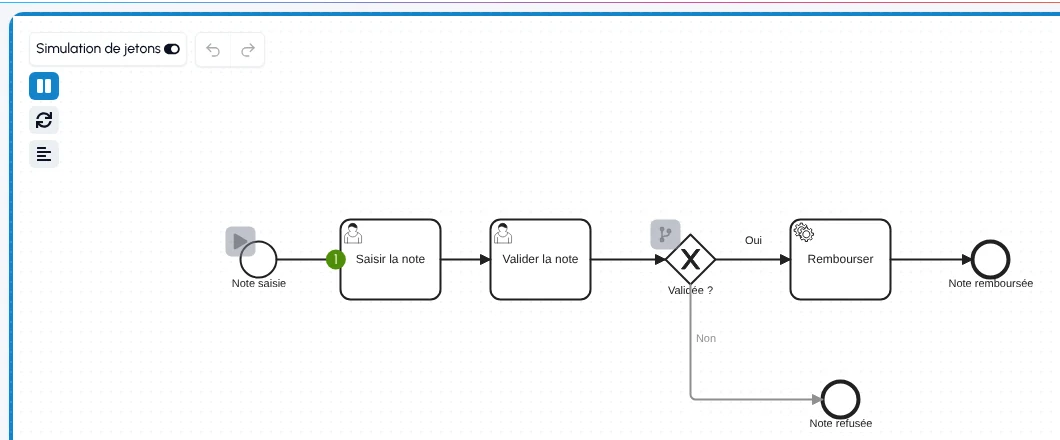
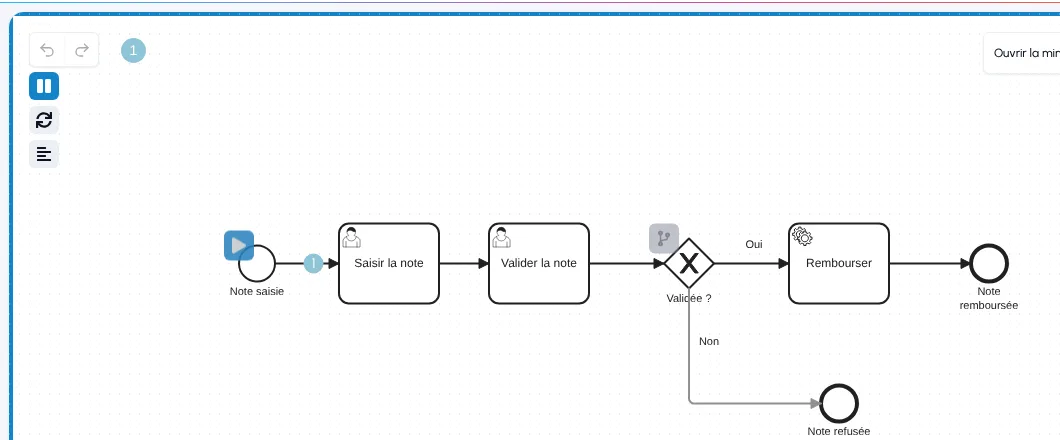
Move token simulation into expert mode and drop the canvas toggle

diff --git a/aide.html b/aide.html
@@ -127,7 +127,7 @@
         <p>La clé à molette ouvre la fenêtre <span class="uib">Changer l'élément</span>. Elle liste les types compatibles avec l'élément choisi : une tâche peut devenir tâche utilisateur, tâche de service, activité d'appel ou sous-processus, un événement de début peut devenir événement de début de message ou de minuteur, etc. Tapez quelques lettres dans le champ de recherche pour filtrer la liste, puis cliquez sur un type ou validez avec <kbd>Entrée</kbd>. La touche <kbd>R</kbd> ouvre la même fenêtre au clavier.</p>
         <p>Pour une tâche ou un sous-processus, les icônes en haut à droite de la fenêtre ajoutent un marqueur sans changer le type : multi-instance parallèle <span class="ico bpmn-icon-parallel-mi-marker" aria-hidden="true"></span>, multi-instance séquentielle <span class="ico bpmn-icon-sequential-mi-marker" aria-hidden="true"></span> et boucle <span class="ico bpmn-icon-loop-marker" aria-hidden="true"></span>. Un second clic retire le marqueur. Le nombre de boucles et la condition d'achèvement se règlent ensuite dans le <a href="#proprietes">panneau Processus</a>.</p>
         <h3><span class="ico" data-icon="undo" aria-hidden="true"></span>Annuler et rétablir</h3>
-        <p>Les boutons <span class="uib"><span class="ico" data-icon="undo" aria-hidden="true"></span>Annuler</span> et <span class="uib"><span class="ico" data-icon="redo" aria-hidden="true"></span>Rétablir</span>, en haut à gauche du canevas à côté de la simulation de jetons, reprennent vos gestes et ceux du co-pilote un par un, comme <kbd>Ctrl</kbd>+<kbd>Z</kbd> et <kbd>Ctrl</kbd>+<kbd>Y</kbd>. Ils sont grisés quand il n'y a rien à annuler ou à rétablir.</p>
+        <p>Les boutons <span class="uib"><span class="ico" data-icon="undo" aria-hidden="true"></span>Annuler</span> et <span class="uib"><span class="ico" data-icon="redo" aria-hidden="true"></span>Rétablir</span>, en haut à gauche du canevas, reprennent vos gestes et ceux du co-pilote un par un, comme <kbd>Ctrl</kbd>+<kbd>Z</kbd> et <kbd>Ctrl</kbd>+<kbd>Y</kbd>. Ils sont grisés quand il n'y a rien à annuler ou à rétablir.</p>
         <p>Ranger, ainsi que la mise en page ou le remplacement du diagramme par le co-pilote, rechargent tout le diagramme. Juste avant, l'éditeur en garde une copie : Annuler y revient d'un coup, mais les gestes plus anciens ne s'annulent plus un par un. Ouvrir un fichier ou créer un diagramme repart d'un historique vide.</p>
         <h3>Raccourcis clavier</h3>
         <p>Sur Mac, <kbd>Cmd</kbd> remplace <kbd>Ctrl</kbd>.</p>
@@ -159,7 +159,7 @@
         </ul>
         <p>Sur le canevas, la grille aide à aligner les formes, qui s'y accrochent.</p>
         <h3><span class="ico" data-icon="present" aria-hidden="true"></span>Présentation</h3>
-        <p>Le bouton <span class="uib"><span class="ico" data-icon="present" aria-hidden="true"></span>Présentation</span> de la barre d'outils affiche le schéma seul, en plein écran : ni palette, ni panneaux, ni grille. Faites glisser pour vous déplacer, zoomez avec <kbd>Ctrl</kbd>+molette, au pincement ou avec <kbd>+</kbd> et <kbd>−</kbd>, et <kbd>0</kbd> ajuste le schéma à l'écran. Le diagramme n'est pas modifiable dans ce mode. Le bouton Simulation de la barre y lance la simulation de jetons, avec ses commandes : départ, choix aux passerelles, pause, journal et vitesse. <kbd>Échap</kbd> ou la croix ramène à l'éditeur, avec la vue d'avant.</p>
+        <p>Le bouton <span class="uib"><span class="ico" data-icon="present" aria-hidden="true"></span>Présentation</span> de la barre d'outils affiche le schéma seul, en plein écran : ni palette, ni panneaux, ni grille. Faites glisser pour vous déplacer, zoomez avec <kbd>Ctrl</kbd>+molette, au pincement ou avec <kbd>+</kbd> et <kbd>−</kbd>, et <kbd>0</kbd> ajuste le schéma à l'écran. Le diagramme n'est pas modifiable dans ce mode. En mode expert, le bouton Simulation de la barre y lance la simulation de jetons, avec ses commandes : départ, choix aux passerelles, pause, journal et vitesse. <kbd>Échap</kbd> ou la croix ramène à l'éditeur, avec la vue d'avant.</p>
       </section>
 
       <section id="proprietes">
@@ -596,9 +596,9 @@
       <section id="experts-bpmn">
         <h2>Pour les experts BPMN</h2>
         <p>Ces fonctions servent à éprouver un modèle et à en rendre compte : rejouer le processus, mesurer la répartition des instances, en tirer un rapport, et contrôler en détail ce que produit l'IA. Aucune n'est nécessaire pour dessiner un diagramme.</p>
-        <p>La carte de chaleur, les probabilités des branches et le rapport de processus n'apparaissent qu'en mode expert, pour ne pas encombrer l'éditeur : cliquez sur <span class="uib"><span class="ico" data-icon="expert" aria-hidden="true"></span>Expert</span>, dans la barre d'outils, pour les afficher ou les masquer. Le navigateur retient ce choix. La simulation de jetons, les contrôles du co-pilote et les outils MCP restent disponibles dans les deux modes.</p>
+        <p>La simulation de jetons, la carte de chaleur, les probabilités des branches et le rapport de processus n'apparaissent qu'en mode expert, pour ne pas encombrer l'éditeur : cliquez sur <span class="uib"><span class="ico" data-icon="expert" aria-hidden="true"></span>Expert</span>, dans la barre d'outils, pour les afficher ou les masquer. Le navigateur retient ce choix. Les contrôles du co-pilote et les outils MCP restent disponibles dans les deux modes.</p>
         <h3 id="simulation"><span class="ico" data-icon="play" aria-hidden="true"></span>Simulation</h3>
-        <p>Le bouton <span class="uib"><span class="ico" data-icon="play" aria-hidden="true"></span>Simulation</span> (à côté de Ranger) lance le mode simulation : un bouton de lecture apparaît sur chaque événement de début. Cliquez dessus pour faire partir un jeton, et regardez-le suivre les flux. Aux passerelles exclusives, vous choisissez le chemin. Une glissière, en bas du canevas, règle la vitesse des jetons de 0,25× à 4×. Un journal montre les étapes parcourues. Vous vérifiez ainsi que le processus se termine dans tous les cas. Cliquez sur <span class="uib">Arrêter la simulation</span> pour revenir à l'édition.</p>
+        <p>Le bouton <span class="uib"><span class="ico" data-icon="play" aria-hidden="true"></span>Simulation</span>, à côté de Ranger en mode expert, lance le mode simulation : un bouton de lecture apparaît sur chaque événement de début. Cliquez dessus pour faire partir un jeton, et regardez-le suivre les flux. Aux passerelles exclusives, vous choisissez le chemin. Une glissière, en bas du canevas, règle la vitesse des jetons de 0,25× à 4×. Un journal montre les étapes parcourues. Vous vérifiez ainsi que le processus se termine dans tous les cas. Cliquez sur <span class="uib">Arrêter la simulation</span> pour revenir à l'édition.</p>
         <figure><img src="/src/help/img/fr-simulation.webp" width="1060" height="440" alt="Simulation en cours : un jeton est sur la première tâche, et le bouton de la passerelle choisit le chemin." loading="lazy" /><figcaption>Une simulation en cours : le jeton avance de tâche en tâche.</figcaption></figure>
         <h3 id="probabilites">Probabilités des branches</h3>
         <p>Le champ <span class="ui">Probabilité (%)</span>, dans le groupe <span class="ui">Simulation</span> du <a href="#proprietes">panneau Processus</a>, apparaît en mode expert pour un flux de séquence qui sort d'une passerelle exclusive, inclusive, complexe ou basée sur les événements. Il accepte une valeur de 0 à 100 et s'annule comme toute modification.</p>

diff --git a/help.html b/help.html
@@ -127,7 +127,7 @@
         <p>The wrench opens the <span class="uib">Change element</span> window. It lists the types that fit the selected element: a task can become a user task, a service task, a call activity or a sub-process, a start event can become a message or timer start event, and so on. Type a few letters in the search field to filter the list, then click a type or press <kbd>Enter</kbd>. The <kbd>R</kbd> key opens the same window from the keyboard.</p>
         <p>For a task or a sub-process, the icons at the top right of the window add a marker without changing the type: parallel multi-instance <span class="ico bpmn-icon-parallel-mi-marker" aria-hidden="true"></span>, sequential multi-instance <span class="ico bpmn-icon-sequential-mi-marker" aria-hidden="true"></span> and loop <span class="ico bpmn-icon-loop-marker" aria-hidden="true"></span>. Click again to remove the marker. You then set the loop cardinality and completion condition in the <a href="#properties">Process panel</a>.</p>
         <h3><span class="ico" data-icon="undo" aria-hidden="true"></span>Undo and redo</h3>
-        <p>The <span class="uib"><span class="ico" data-icon="undo" aria-hidden="true"></span>Undo</span> and <span class="uib"><span class="ico" data-icon="redo" aria-hidden="true"></span>Redo</span> buttons, at the top left of the canvas next to Token simulation, step through your edits and the co-pilot's one at a time, like <kbd>Ctrl</kbd>+<kbd>Z</kbd> and <kbd>Ctrl</kbd>+<kbd>Y</kbd>. They are greyed out when there is nothing to undo or redo.</p>
+        <p>The <span class="uib"><span class="ico" data-icon="undo" aria-hidden="true"></span>Undo</span> and <span class="uib"><span class="ico" data-icon="redo" aria-hidden="true"></span>Redo</span> buttons, at the top left of the canvas, step through your edits and the co-pilot's one at a time, like <kbd>Ctrl</kbd>+<kbd>Z</kbd> and <kbd>Ctrl</kbd>+<kbd>Y</kbd>. They are greyed out when there is nothing to undo or redo.</p>
         <p>Tidy up, and a layout or a diagram replaced by the co-pilot, reload the whole diagram. Just before, the editor keeps a copy: Undo goes back to it in one step, but older edits can no longer be undone one by one. Opening a file or creating a diagram starts with an empty history.</p>
         <h3>Keyboard shortcuts</h3>
         <p>On a Mac, use <kbd>Cmd</kbd> instead of <kbd>Ctrl</kbd>.</p>
@@ -159,7 +159,7 @@
         </ul>
         <p>On the canvas, the grid helps you line shapes up, and they snap to it.</p>
         <h3><span class="ico" data-icon="present" aria-hidden="true"></span>Presentation</h3>
-        <p>The <span class="uib"><span class="ico" data-icon="present" aria-hidden="true"></span>Presentation</span> button in the toolbar shows the diagram alone, full screen: no palette, panels or grid. Drag to move around, zoom with <kbd>Ctrl</kbd>+wheel, by pinching or with <kbd>+</kbd> and <kbd>−</kbd>, and <kbd>0</kbd> fits the diagram to the screen. The diagram cannot be edited in this mode. The Simulation button in the bar runs the token simulation there, with its controls: start, gateway choices, pause, log and speed. <kbd>Esc</kbd> or the cross returns to the editor, with the previous view.</p>
+        <p>The <span class="uib"><span class="ico" data-icon="present" aria-hidden="true"></span>Presentation</span> button in the toolbar shows the diagram alone, full screen: no palette, panels or grid. Drag to move around, zoom with <kbd>Ctrl</kbd>+wheel, by pinching or with <kbd>+</kbd> and <kbd>−</kbd>, and <kbd>0</kbd> fits the diagram to the screen. The diagram cannot be edited in this mode. In expert mode, the Simulation button in the bar runs the token simulation there, with its controls: start, gateway choices, pause, log and speed. <kbd>Esc</kbd> or the cross returns to the editor, with the previous view.</p>
       </section>
 
       <section id="properties">
@@ -596,9 +596,9 @@
       <section id="bpmn-experts">
         <h2>For BPMN experts</h2>
         <p>These features are for testing a model and reporting on it: replaying the process, measuring how instances spread, producing a report, and checking in detail what the AI produces. None of them is needed to draw a diagram.</p>
-        <p>The heatmap, branch probabilities and the process report only show in expert mode, so that they stay out of the way: click <span class="uib"><span class="ico" data-icon="expert" aria-hidden="true"></span>Expert</span>, in the toolbar, to show or hide them. The browser remembers this choice. Token simulation, the co-pilot checks and the MCP tools are available in both modes.</p>
+        <p>Token simulation, the heatmap, branch probabilities and the process report only show in expert mode, so that they stay out of the way: click <span class="uib"><span class="ico" data-icon="expert" aria-hidden="true"></span>Expert</span>, in the toolbar, to show or hide them. The browser remembers this choice. The co-pilot checks and the MCP tools are available in both modes.</p>
         <h3 id="simulation"><span class="ico" data-icon="play" aria-hidden="true"></span>Simulation</h3>
-        <p>The <span class="uib"><span class="ico" data-icon="play" aria-hidden="true"></span>Simulation</span> button (next to Tidy up) switches to simulation mode: a play button appears on each start event. Click it to send a token, and watch it follow the flows. At exclusive gateways, you choose the path. A slider at the bottom of the canvas sets the token speed, from 0.25× to 4×. A log lists the steps taken, so you can check that the process ends in every case. Click <span class="uib">Stop simulation</span> to go back to editing.</p>
+        <p>The <span class="uib"><span class="ico" data-icon="play" aria-hidden="true"></span>Simulation</span> button, next to Tidy up in expert mode, switches to simulation mode: a play button appears on each start event. Click it to send a token, and watch it follow the flows. At exclusive gateways, you choose the path. A slider at the bottom of the canvas sets the token speed, from 0.25× to 4×. A log lists the steps taken, so you can check that the process ends in every case. Click <span class="uib">Stop simulation</span> to go back to editing.</p>
         <figure><img src="/src/help/img/en-simulation.webp" width="1060" height="440" alt="Simulation running: a token is on the first task, and the gateway button picks the path." loading="lazy" /><figcaption>A simulation running: the token moves from task to task.</figcaption></figure>
         <h3 id="probabilities">Branch probabilities</h3>
         <p>The <span class="ui">Probability (%)</span> field, in the <span class="ui">Simulation</span> group of the <a href="#properties">Process panel</a>, appears in expert mode for a sequence flow leaving an exclusive, inclusive, complex or event-based gateway. It takes a value from 0 to 100 and can be undone like any change.</p>

diff --git a/src/theme/leylines.css b/src/theme/leylines.css
@@ -218,7 +218,11 @@ a.btn { text-decoration: none; }
   background: var(--white); box-shadow: var(--elevation-1);
 }
 
-/* Bascule de simulation de jetons */
+/* Bascule de simulation de jetons de l'extension : masquée, la simulation se lance par le
+   bouton Simulation de la barre d'outils, en mode expert. */
+#canvas .bts-toggle-mode { display: none !important; }
+/* Pastilles des instances en cours : à droite d'Annuler et Rétablir. */
+#canvas .bts-scopes { left: 112px; top: 26px; }
 #canvas .bts-toggle-mode {
   font-family: var(--font-sans); font-size: 14px; font-weight: 500;
   border-radius: var(--radius-sm); border: 1px solid var(--mist);
@@ -1328,10 +1332,9 @@ body.panel-resizing iframe, body.panel-resizing #canvas { pointer-events: none; 
 #canvas .ai-changes-action[hidden] { display: none; }
 #canvas .ai-changes-action:hover { color: var(--leyline-magenta); }
 
-/* Annuler et Rétablir (src/history.js) : flottants en haut à gauche du canevas, à droite de la
-   bascule de simulation. Leur position horizontale suit la largeur de la bascule (--history-left). */
+/* Annuler et Rétablir (src/history.js) : flottants en haut à gauche du canevas, au-dessus de la palette. */
 #history-buttons {
-  position: absolute; top: 20px; left: var(--history-left, 210px); z-index: 100;
+  position: absolute; top: 20px; left: 20px; z-index: 100;
   display: inline-flex; overflow: hidden;
   border: 1px solid var(--mist); border-radius: var(--radius-sm);
   background: var(--white); box-shadow: var(--elevation-1);

diff --git a/src/main.js b/src/main.js
@@ -47,7 +47,7 @@ import { setupPanelToggle } from './panel-toggle.js'
 import { setupPresentation } from './presentation.js'
 import { setupSimulationSpeed } from './simulation-speed.js'
 import { setupHeatmap } from './heatmap.js'
-import { setupExpertMode } from './expert-mode.js'
+import { setupExpertMode, isExpert, EXPERT_EVENT } from './expert-mode.js'
 import { ProbabilityPanelModule } from './probability-panel.js'
 import bpmnPilotModdle from './bpmn-pilot-moddle.json'
 import { buildReport, reportToMarkdown, reportToPdf } from './process-report.js'
@@ -490,6 +490,14 @@ modeler.on('tokenSimulation.toggleMode', ({ active }) => {
 simButton.addEventListener('click', () => {
   modeler.get('toggleMode').toggleMode()
 })
+// La simulation de jetons appartient au mode expert : hors de ce mode, ni le bouton ni la
+// touche T de l'extension ne la lancent, et quitter le mode expert l'arrête.
+{
+  const toggleMode = modeler.get('toggleMode')
+  const toggle = toggleMode.toggleMode.bind(toggleMode)
+  toggleMode.toggleMode = (active = !toggleMode._active) => (active && !isExpert() ? undefined : toggle(active))
+  window.addEventListener(EXPERT_EVENT, ({ detail }) => { if (!detail.on && toggleMode._active) toggle(false) })
+}
 
 function download(content, filename, type) {
   const a = document.createElement('a')

diff --git a/src/presentation.js b/src/presentation.js
@@ -24,7 +24,7 @@ export function setupPresentation({ button, modeler, onExit }) {
   bar.id = 'presentation-bar'
   bar.hidden = true
   bar.innerHTML = `
-    <button type="button" class="btn" data-act="sim" data-icon="play" title="${T('Run tokens through the process', 'Faire circuler des jetons dans le processus')}">Simulation</button>
+    <button type="button" class="btn expert-only" data-act="sim" data-icon="play" title="${T('Run tokens through the process', 'Faire circuler des jetons dans le processus')}">Simulation</button>
     <button type="button" class="btn icon-only" data-act="out" title="${T('Zoom out (−)', 'Dézoomer (−)')}" aria-label="${T('Zoom out', 'Dézoomer')}">−</button>
     <button type="button" class="btn icon-only" data-act="in" title="${T('Zoom in (+)', 'Zoomer (+)')}" aria-label="${T('Zoom in', 'Zoomer')}">+</button>
     <button type="button" class="btn" data-act="fit" title="${T('Fit the diagram to the screen (0)', 'Ajuster le diagramme à l\'écran (0)')}">${T('Fit', 'Ajuster')}</button>

diff --git a/index.html b/index.html
@@ -77,7 +77,7 @@
     <button class="btn" id="btn-library" data-icon="library" title="Save, reopen, rename or delete diagrams (Ctrl+S saves)">My diagrams</button>
     <div class="sep"></div>
     <button class="btn" id="btn-layout" data-icon="layout" title="Tidy up the layout">Tidy up</button>
-    <button class="btn" id="btn-simulation" data-icon="play" title="Run tokens through the process">Simulation</button>
+    <button class="btn expert-only" id="btn-simulation" data-icon="play" title="Run tokens through the process">Simulation</button>
     <button class="btn" id="btn-present" data-icon="present" title="Presentation: the diagram alone, full screen">Presentation</button>
     <button class="btn" id="btn-expert" data-icon="expert" aria-pressed="false" title="Expert mode: show the heatmap, branch probabilities and process report">Expert</button>
     <span id="autosave-status">Autosave: —</span>

diff --git a/src/history.js b/src/history.js
@@ -148,16 +148,6 @@ export function setupHistory({ modeler, undoButton, redoButton }) {
     refresh()
   })
 
-  // Les boutons flottent à droite de la bascule de simulation, quelle que soit sa largeur.
-  const group = undoButton?.parentElement
-  const placeGroup = () => {
-    const toggle = modeler.get('canvas').getContainer().querySelector('.bts-toggle-mode')
-    if (group && toggle?.offsetWidth) group.style.setProperty('--history-left', `${toggle.offsetLeft + toggle.offsetWidth + 8}px`)
-  }
-  requestAnimationFrame(placeGroup)
-  const toggle = modeler.get('canvas').getContainer().querySelector('.bts-toggle-mode')
-  if (toggle && 'ResizeObserver' in window) new ResizeObserver(placeGroup).observe(toggle)
-
   undoButton?.addEventListener('click', () => undo())
   redoButton?.addEventListener('click', () => redo())
   if (undoButton) undoButton.title = T('Undo (Ctrl+Z)', 'Annuler (Ctrl+Z)')

diff --git a/README.md b/README.md
@@ -320,10 +320,11 @@ it), unless the table says `mcp/.env`, then run `docker compose up -d --build`.
   as an image, print the diagram alone fitted to one page. The current diagram is restored when you
   come back.
 - **My diagrams**: save several diagrams, reopen, rename, delete. Ctrl+S saves.
-- **Drawing**: palette, context pad, copy and paste, undo and redo buttons, tidy up, token
-  simulation, BPMN rule checking, grid, minimap, and the Process panel for the properties of each
+- **Drawing**: palette, context pad, copy and paste, undo and redo buttons, tidy up, BPMN rule
+  checking, grid, minimap, and the Process panel for the properties of each
   element.
-- **Heatmap and process report**: during the simulation, color the diagram by the number of tokens
+- **Expert mode: token simulation, heatmap and process report**: run tokens through the
+  process, with a speed slider. During the simulation, color the diagram by the number of tokens
   through each element, played by hand or computed from branch probabilities. Export a process report
   (PDF or Markdown) with the findings in three levels, improvement areas, the element sequence and, after a simulation, the heatmap.
 - **Compare**: two versions side by side, with what was added, removed or changed in color and the
